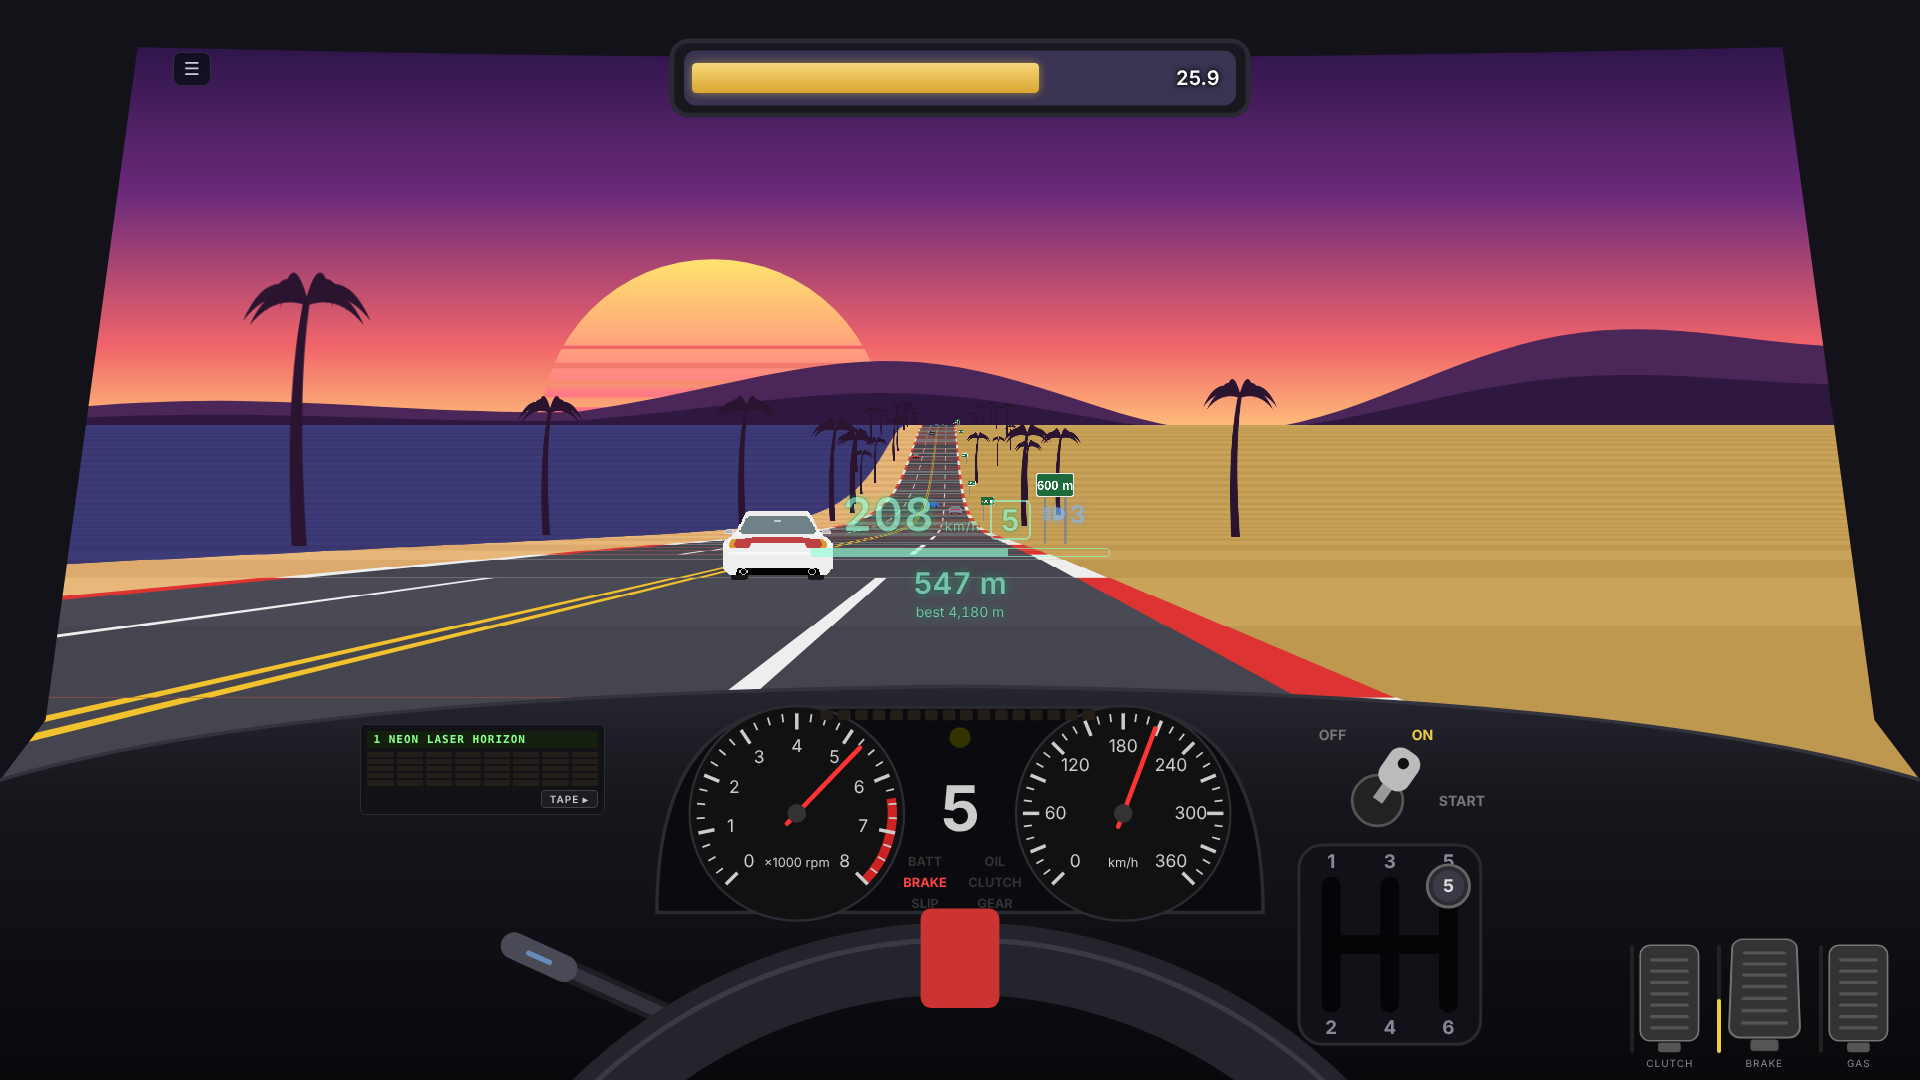
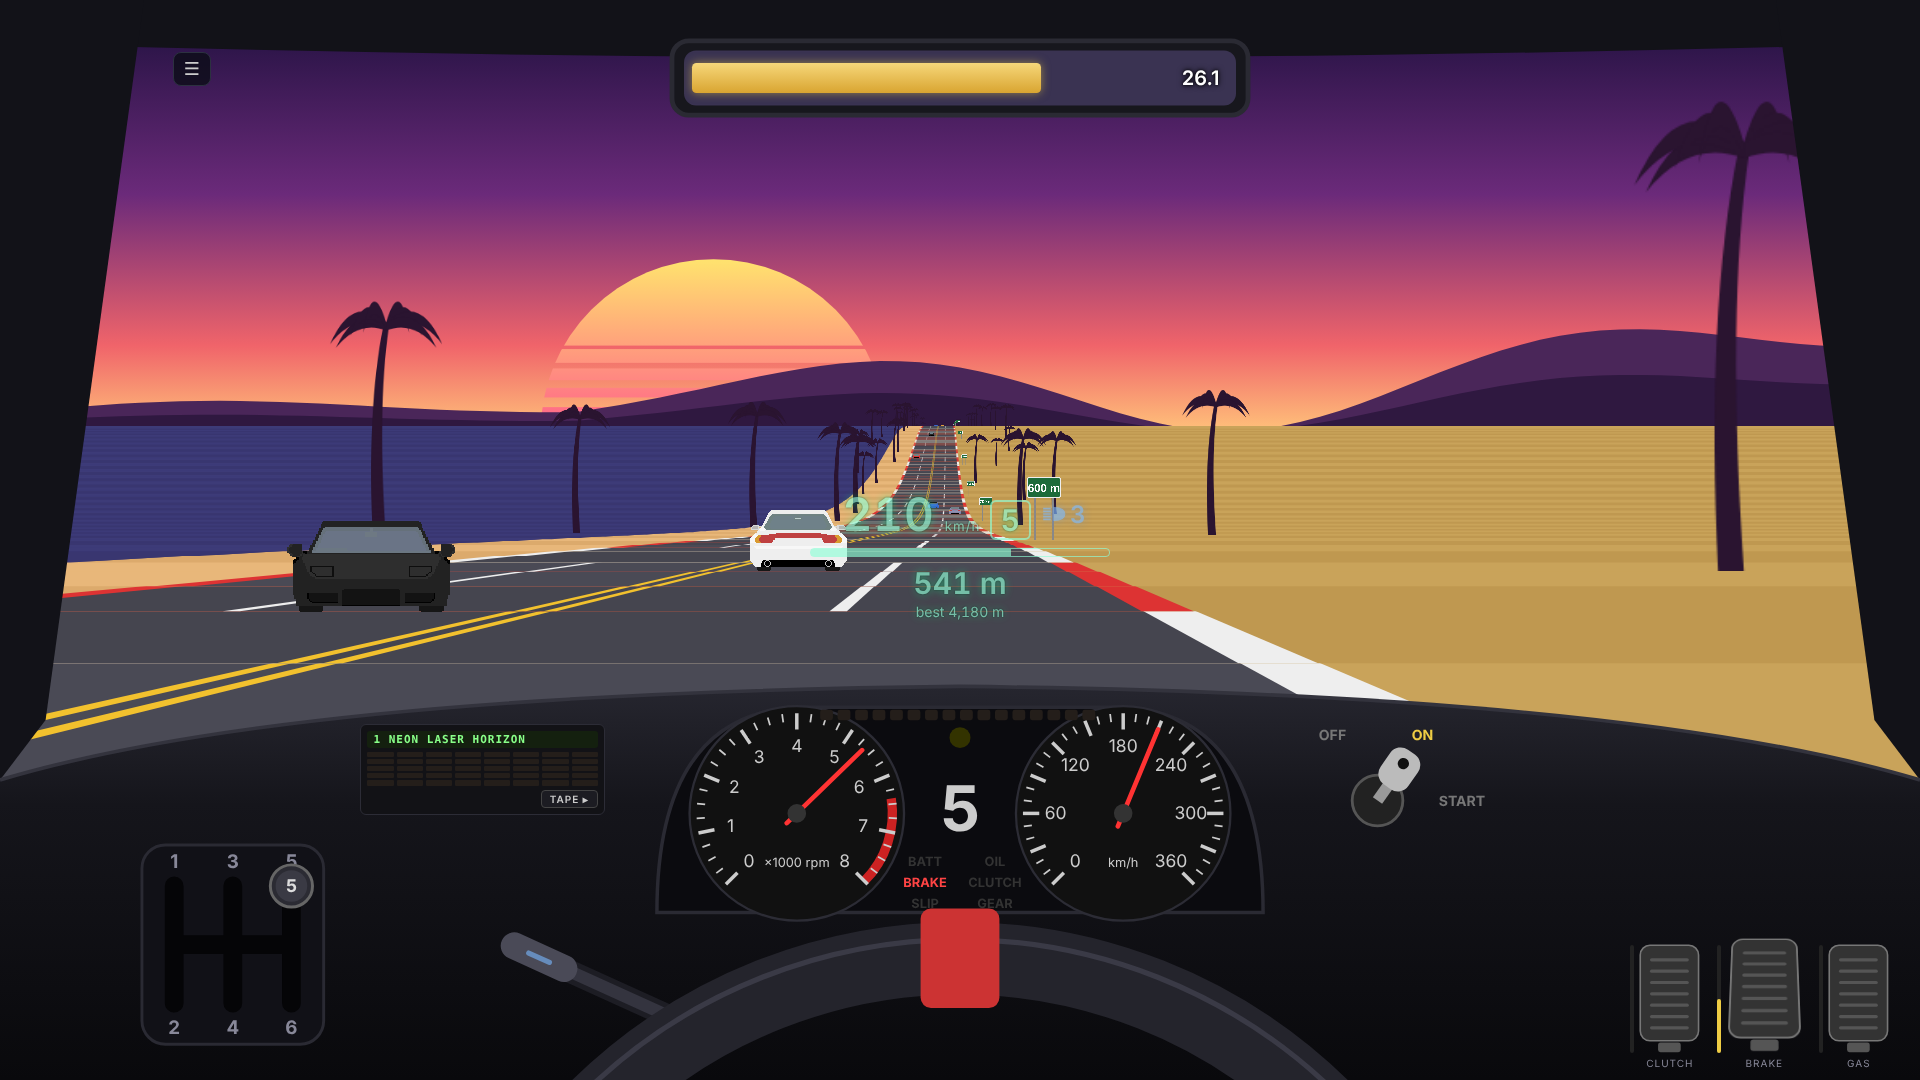
The gear lever on the left on a desktop too
It sat right of the wheel, under the key: the owner, on the wrong side.
Now below the stereo, its right edge at 17vw, clear of the stereo and the
light stalk at every window shape tried (1000x700 to 2560x1080, 5:4);
the key stays right of the wheel. It also clears the key and the pedals,
which its box overlapped at some sizes. The itch.io page's three desktop
screenshots are re-shot.

Claude-Session: https://claude.ai/code/session_012p9s8NMc3hk8bFuutwLkYU

diff --git a/css/style.css b/css/style.css
@@ -293,7 +293,9 @@ body.menu:has([data-screen="win"]:not([hidden]), [data-screen="act"]:not([hidden
 #ignition text { font: bold 10px system-ui, sans-serif; fill: #777; text-anchor: middle; }
 #key { transform-origin: 65px 70px; }
 #ignition[data-state="off"] .off, #ignition[data-state="on"] .on, #ignition[data-state="start"] .start { fill: var(--accent); }
-#shifter { position: fixed; left: 67.5vw; top: 78vh; height: calc(19vh * 3.2 / var(--gate-w)); /* 7 gears: shorter, same width */ cursor: grab; touch-action: none; }
+/* the lever on the left, as on a phone (the owner, 23 Oct): its right edge at 17vw, clear of the stereo and the light
+   stalk at any window shape (19vh * 3.2 / 3.5 is its width, with 6 gears or 7) */
+#shifter { position: fixed; left: max(1.5vw, calc(17vw - 19vh * 3.2 / 3.5)); top: 78vh; height: calc(19vh * 3.2 / var(--gate-w)); /* 7 gears: shorter, same width */ cursor: grab; touch-action: none; }
 #shifter text { font: bold 0.32px system-ui, sans-serif; fill: #889; text-anchor: middle; }
 #shifter text.locked { fill: #2a2a33; }
 #shifter text.broken { fill: #c33; }

diff --git a/tools/store_shots.py b/tools/store_shots.py
@@ -34,8 +34,7 @@ with sync_playwright() as p:
     pg.screenshot(path=f"{OUT}/2-garage.png")
     pg.keyboard.press("Escape"); pg.click('[data-show="help"]:visible'); pg.click('[data-tour="driving"]'); pg.keyboard.press("ArrowRight"); pg.wait_for_timeout(300)
     pg.screenshot(path=f"{OUT}/4-how-to-drive.png")
-    # the cover: a taller window, the road, the title over it, in the phone's cockpit: the lever on the left, as the owner
-    # plays it (the owner, 23 Oct: on the desktop's, right of the wheel, it was on the wrong side)
+    # the cover: a taller window, the road, the title over it, in the phone's cockpit, as the owner plays it
     cv = b.new_page(viewport={"width": 1260, "height": 1000}); cj = cv.evaluate
     cv.goto(URL); cv.wait_for_timeout(300); setup(cj, True)
     cv.click('[data-play="distance"]'); cv.wait_for_timeout(300); cj("refreshCar(); 0"); drive(cv, cj, 16)

diff --git a/docs/design-notes.md b/docs/design-notes.md
@@ -98,6 +98,9 @@ machine or session. Keep it current: update a section when a decision changes, a
 - Lane changes are discrete: four lanes, two of them oncoming.
 
 **Gear lever.**
+- On the left in both layouts (the owner, 23 Oct: on a desktop it was right of the wheel, under the key, "on the wrong
+  side"). On a desktop it sits below the stereo, its right edge at 17vw, clear of the stereo and the light stalk at any
+  window shape; the key stays right of the wheel.
 - An H gate, and every shift needs the clutch.
 - With a finger, the lever forgives a sloppy route. Once the finger has come out through neutral, anywhere deep in
   the top or bottom row puts the lever in the nearest column's slot, and it follows the finger if it drifts.
